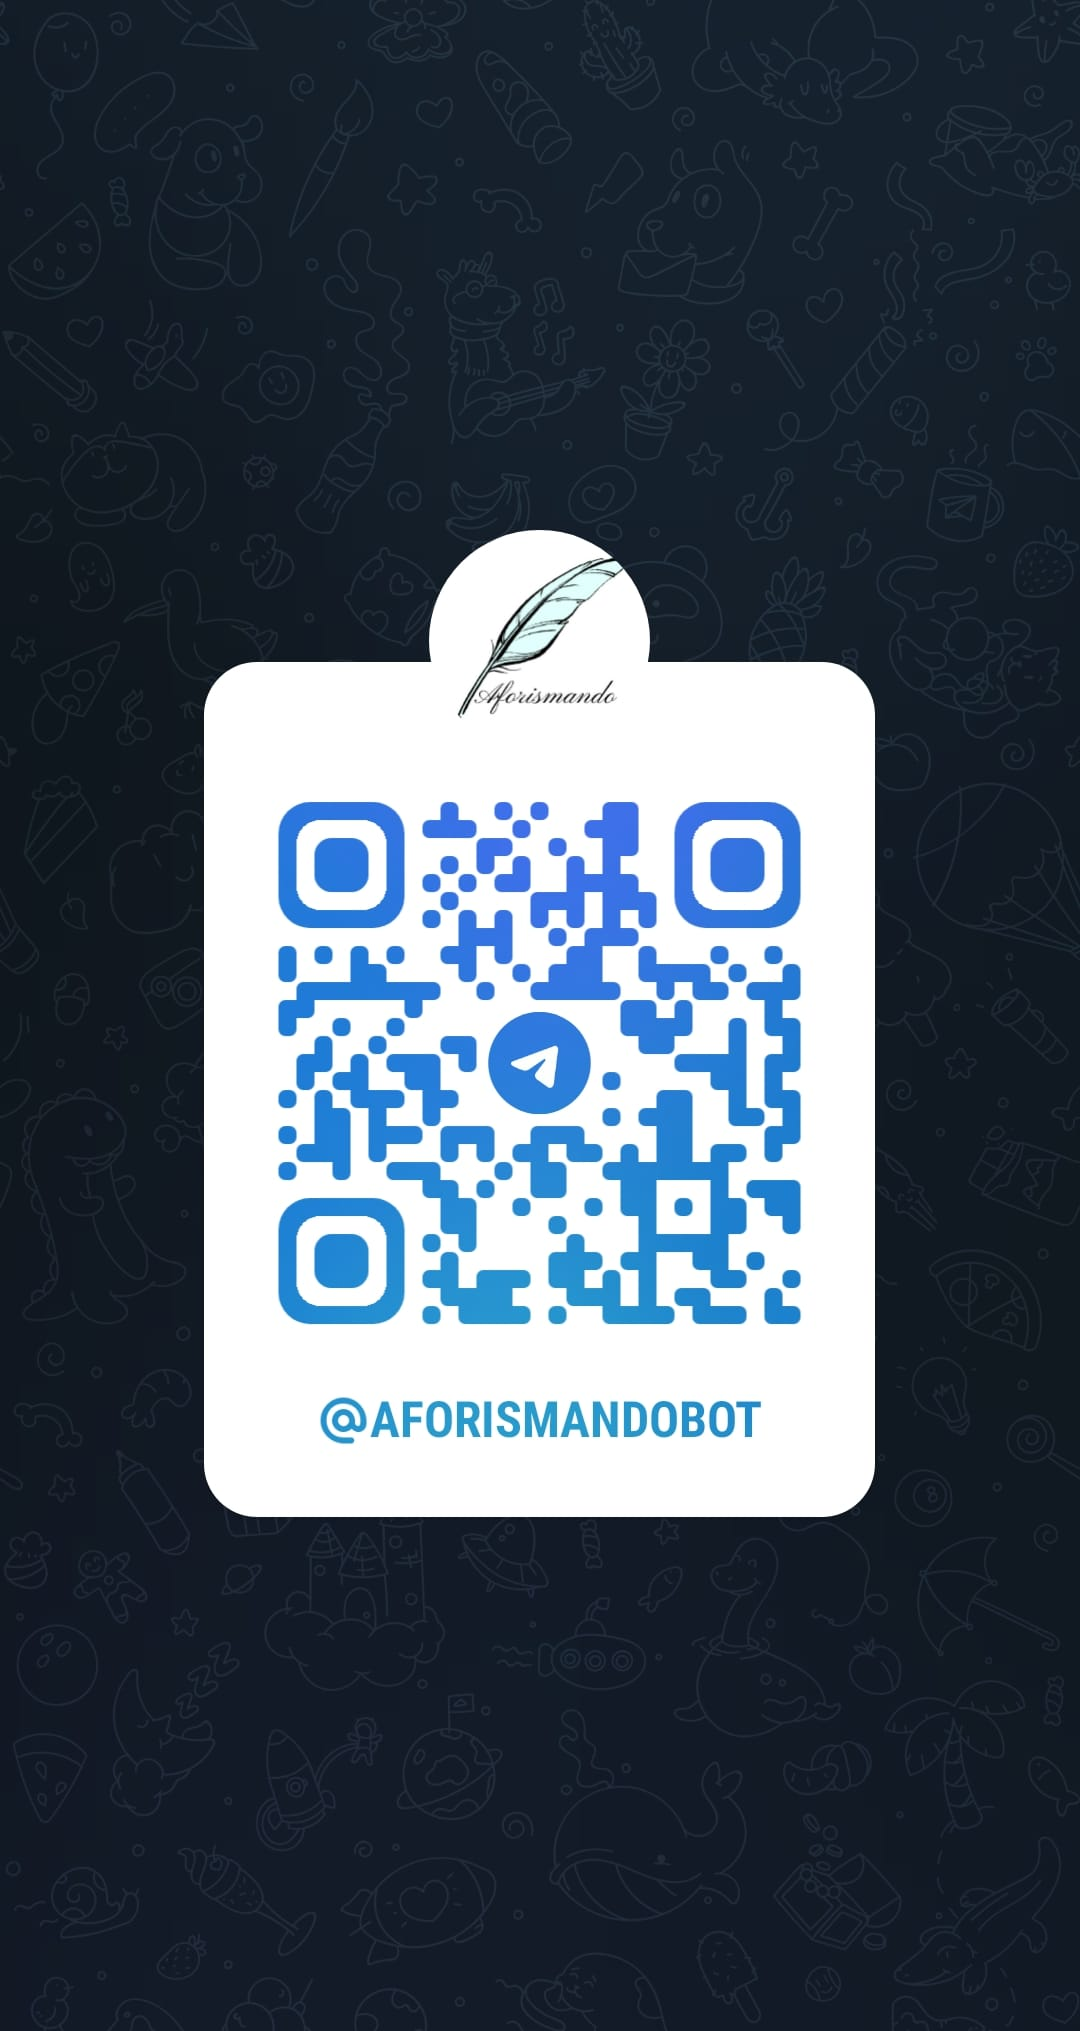
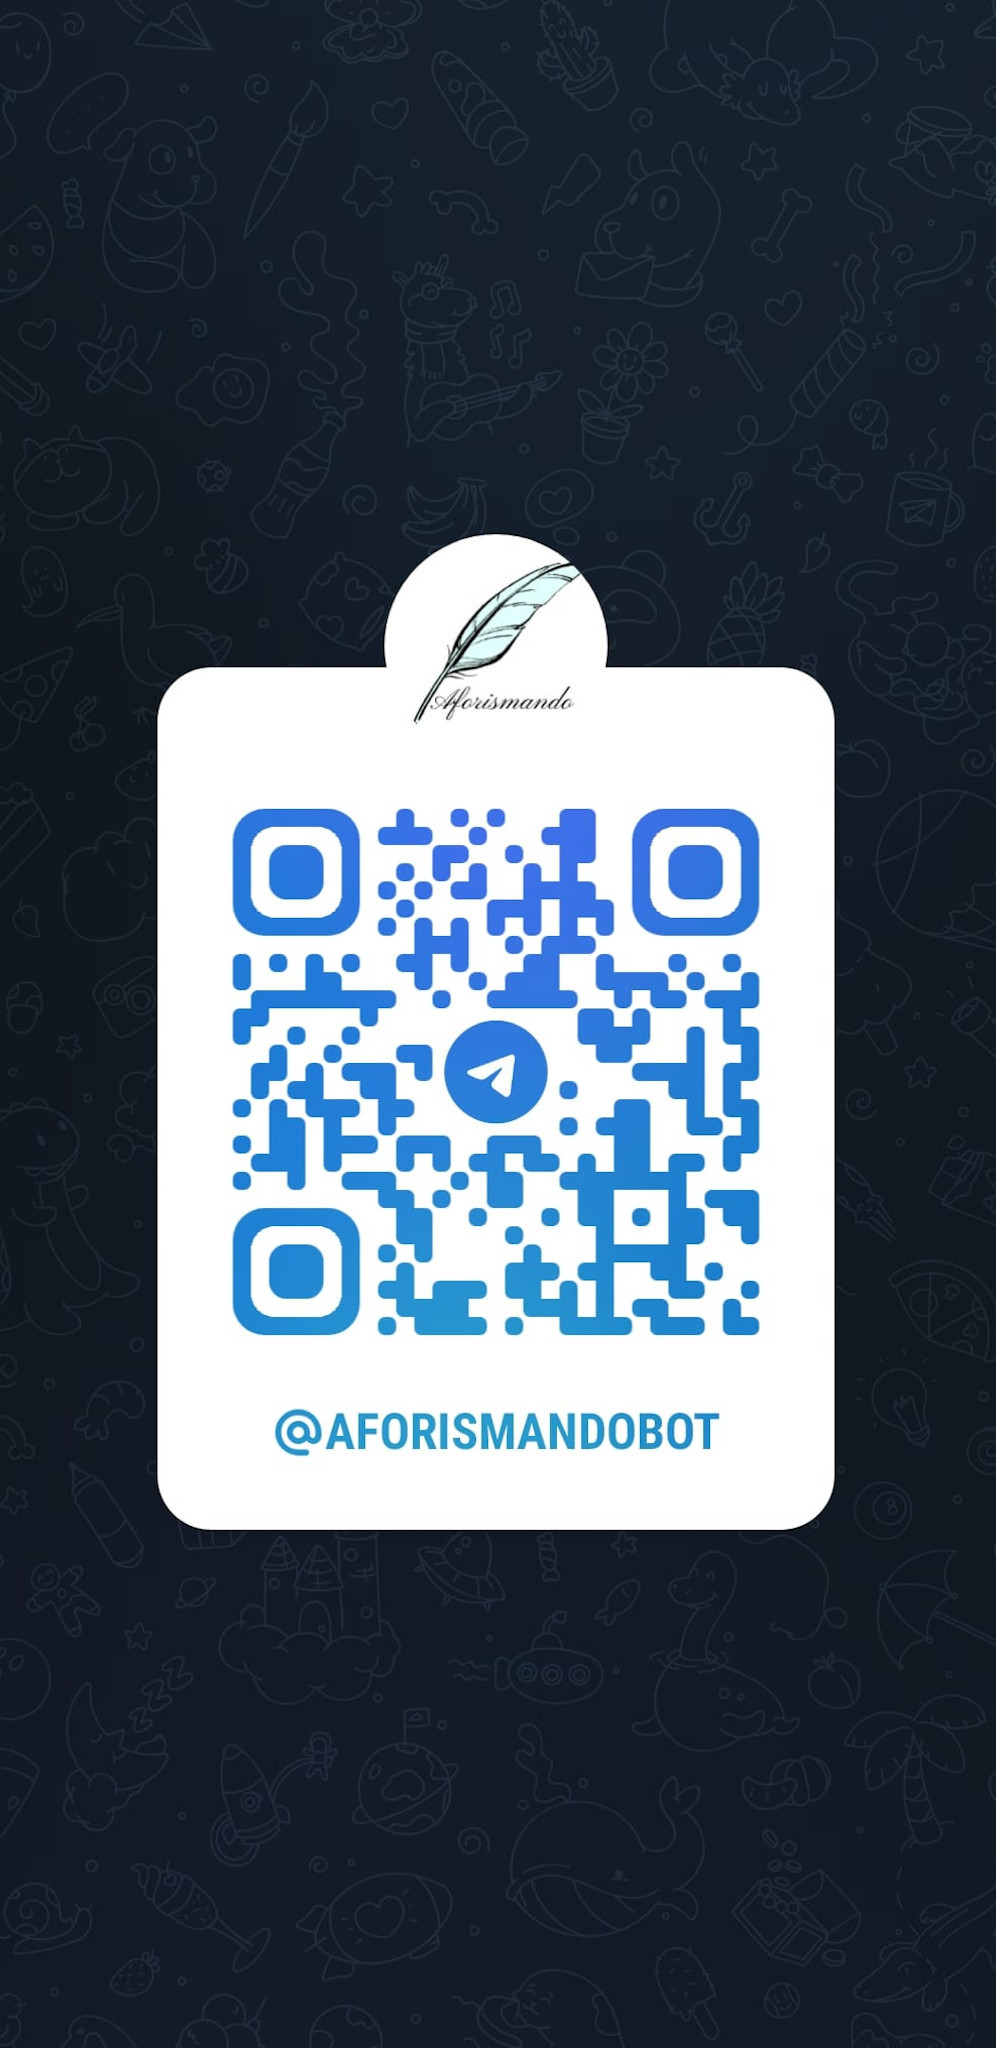
Add new Images and fix

diff --git a/README.md b/README.md
@@ -1,11 +1,11 @@
 <div style="flex">
-<img src="./img/Aforismando.jpg" alt="Aforismando" style="height: 40%; width:40%;"/>
+<img src="./img/Aforismando.jpg" alt="Aforismando" style="height: 30%; width:30%;"/>
 </div>
 A Telegram Quote Bot. @Aforismandobot. It was my first bot.
 <hr/>
-<div align="center" class="flex-container" style="margin: 35px;">
-<img src="./img/qraforismandobot.jpg" alt="Aforismando" style="margin-right:30px; height: 30%; width:20%;"/>
-<img src="./img/screenshot.jpg" alt="Aforismando" style="height: 20%; width:20%;"/>
+<div align="center" class="flex-container" style="margin: 20px;">
+<img src="./img/qraforismandobot.jpg" alt="Aforismando" style="margin:20px; height: 20%; width:20%;"/>
+<img src="./img/screenshot.jpg" alt="Aforismando" style="margin:20px; height: 20%; width:20%;"/>
 </div>
 <hr/>
 
